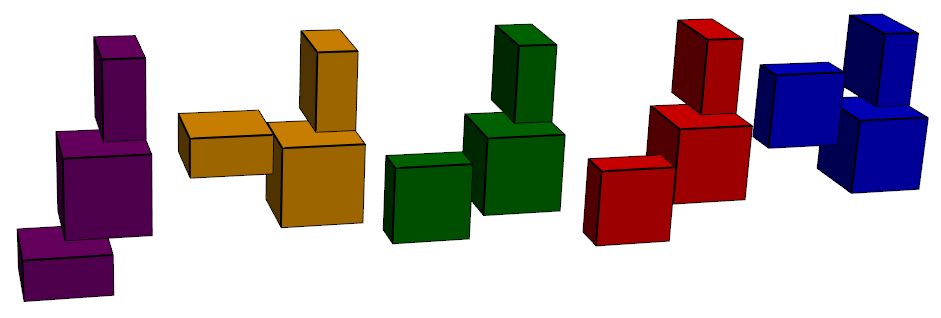
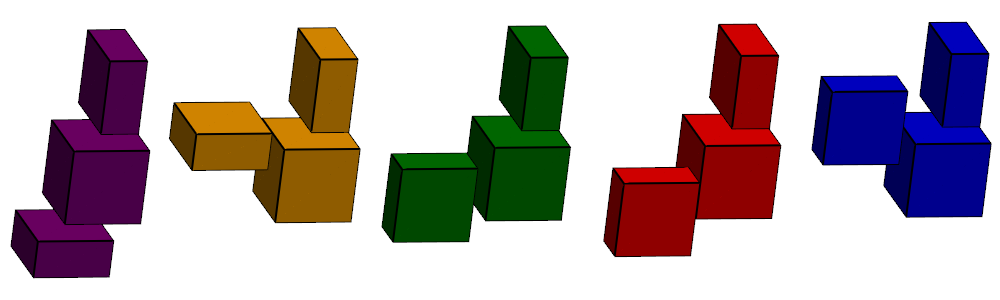
doof

Changed region(s): [[0.0, 0.03, 1.0, 0.96]]

diff --git a/fuer_volker/grau.html b/fuer_volker/grau.html
@@ -50,7 +50,7 @@
 </head>
 <body>
   <h1>Galerie aller 396 Formen mit diesen Teilen:</h1>
-  <img src="Data/teile.png" loading="lazy" alt="Image doof" style="display: block; margin: 0 auto; width: 100%; max-width: 100%;">
+  <img src="Data/teile_grau.png" loading="lazy" alt="Image doof" style="display: block; margin: 0 auto; width: 100%; max-width: 100%;">
   <h2>Anklicken eines Bildes liefert 3D-Animation</h2>
   <dl>
   <dt><strong>Rotation</strong></dt>

diff --git a/fuer_volker/grau_kanten.html b/fuer_volker/grau_kanten.html
@@ -50,7 +50,7 @@
 </head>
 <body>
   <h1>Galerie aller 396 Formen mit diesen Teilen:</h1>
-  <img src="Data/teile.png" loading="lazy" alt="Image doof" style="display: block; margin: 0 auto; width: 100%; max-width: 100%;">
+  <img src="Data/teile_grau.png" loading="lazy" alt="Image doof" style="display: block; margin: 0 auto; width: 100%; max-width: 100%;">
   <h2>Anklicken eines Bildes liefert 3D-Animation</h2>
   <dl>
   <dt><strong>Rotation</strong></dt>

diff --git a/fuer_volker/schwarz.html b/fuer_volker/schwarz.html
@@ -50,7 +50,7 @@
 </head>
 <body>
   <h1>Galerie aller 396 Formen mit diesen Teilen:</h1>
-  <img src="Data/teile.png" loading="lazy" alt="Image doof" style="display: block; margin: 0 auto; width: 100%; max-width: 100%;">
+  <img src="Data/teile_grau.png" loading="lazy" alt="Image doof" style="display: block; margin: 0 auto; width: 100%; max-width: 100%;">
   <h2>Anklicken eines Bildes liefert 3D-Animation</h2>
   <dl>
   <dt><strong>Rotation</strong></dt>
